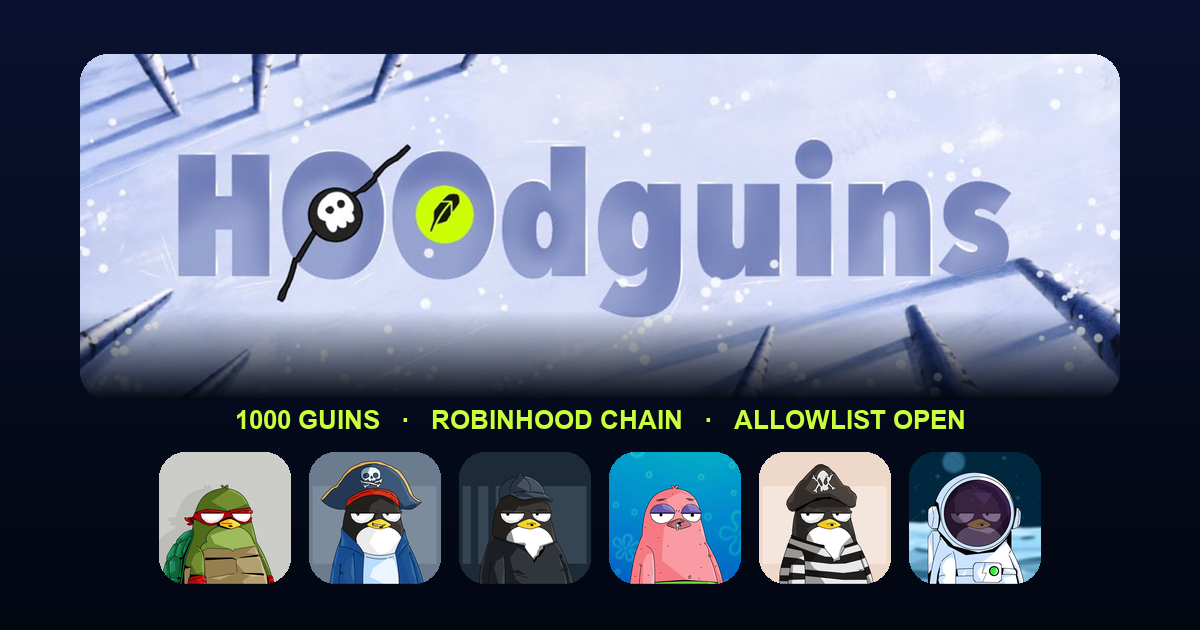
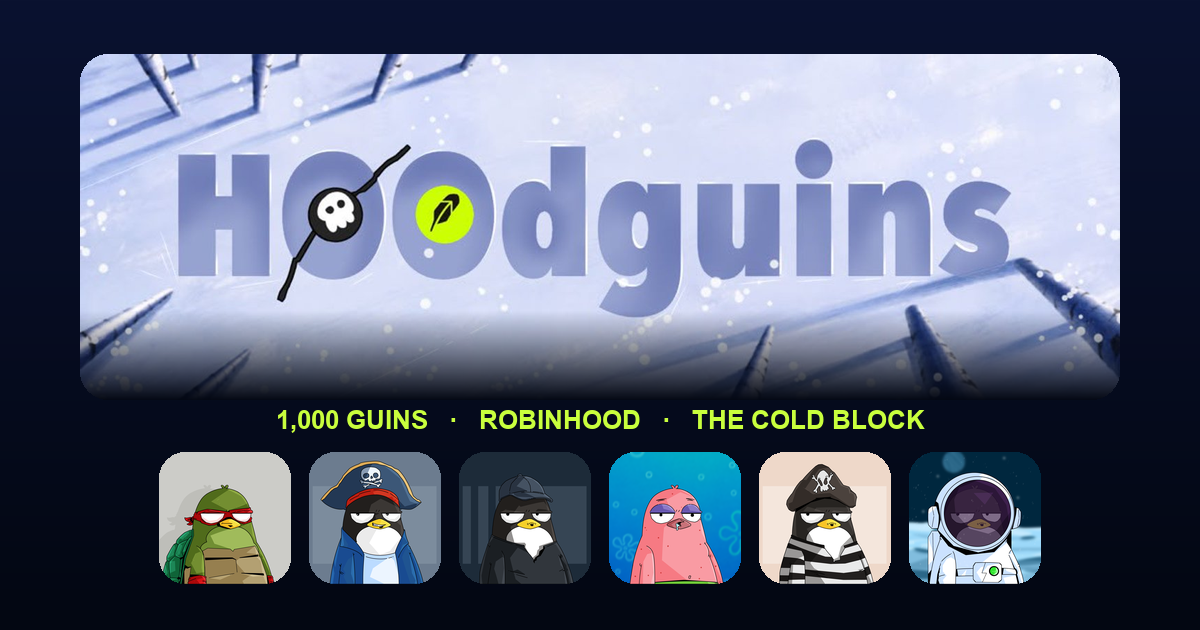
Update hero copy and shorten the chain name to Robinhood
Hero now runs as three lines ending on The Cold Block. The chain reads
"Robinhood" everywhere it is shown, so the entry field asks for a
Robinhood wallet rather than a Robinhood Chain wallet. Share card caption
and alt text regenerated to match.

Changed region(s): [[0.185, 0.6333, 0.8017, 0.6937]]

diff --git a/frontend/src/app/page.tsx b/frontend/src/app/page.tsx
@@ -11,7 +11,7 @@ import { ART, COLLECTION, LINKS, TOKEN } from "@/lib/collection";
 
 const FACTS = [
   { label: "Supply", value: COLLECTION.supply.toLocaleString(), note: "guins drawn by hand" },
-  { label: "Chain", value: COLLECTION.chain, note: "minting on Robinhood" },
+  { label: "Chain", value: COLLECTION.chain, note: "EVM wallets welcome" },
   { label: "Mint price", value: COLLECTION.mintPrice, note: "announced at reveal" },
   { label: "Per wallet", value: `${COLLECTION.allowlistPerWallet} spot`, note: "one wallet, one guin" },
 ];
@@ -65,10 +65,14 @@ export default function Home() {
               h00d<span className="text-lime">guins</span>
             </h1>
 
-            <p className="mt-5 text-base leading-relaxed text-ice-300 sm:text-lg">
-              {COLLECTION.supply.toLocaleString()} ice cold penguins wintering on {COLLECTION.chain}.
-              Hoods up, sunglasses on, permanently unbothered. Claim a spot before the ice sets.
-            </p>
+            <div className="mt-5 space-y-3 text-base leading-relaxed text-ice-300 sm:text-lg">
+              <p>
+                {COLLECTION.supply.toLocaleString()} H00dguins from the coldest block on{" "}
+                {COLLECTION.chain}.
+              </p>
+              <p>Different traits. Different attitudes. Permanently unbothered.</p>
+              <p>Claim your spot in The Cold Block.</p>
+            </div>
 
             <div className="mt-8 flex flex-col gap-3 sm:flex-row sm:flex-wrap sm:items-center">
               <Link

diff --git a/frontend/src/app/layout.tsx b/frontend/src/app/layout.tsx
@@ -28,7 +28,7 @@ export const metadata: Metadata = {
   },
   description,
   applicationName: "h00dguins",
-  keywords: ["h00dguins", "NFT", "Robinhood Chain", "allowlist", "penguins", "$RPENG"],
+  keywords: ["h00dguins", "NFT", "Robinhood", "allowlist", "penguins", "$RPENG"],
   openGraph: {
     type: "website",
     siteName: "h00dguins",

diff --git a/frontend/src/lib/collection.ts b/frontend/src/lib/collection.ts
@@ -2,7 +2,7 @@
 export const COLLECTION = {
   name: "h00dguins",
   supply: 1000,
-  chain: "Robinhood Chain",
+  chain: "Robinhood",
   mintPrice: "TBA",
   allowlistPerWallet: 1,
 } as const;
